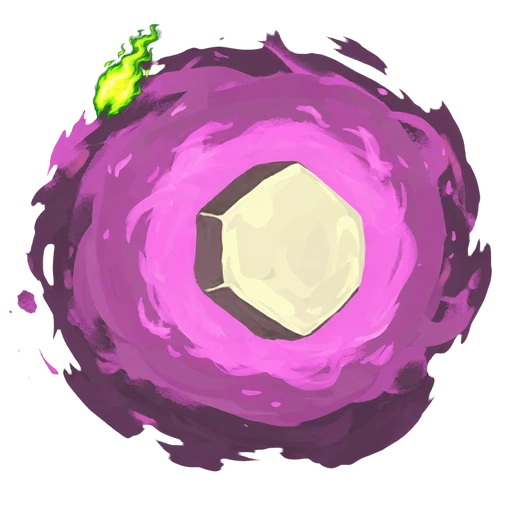
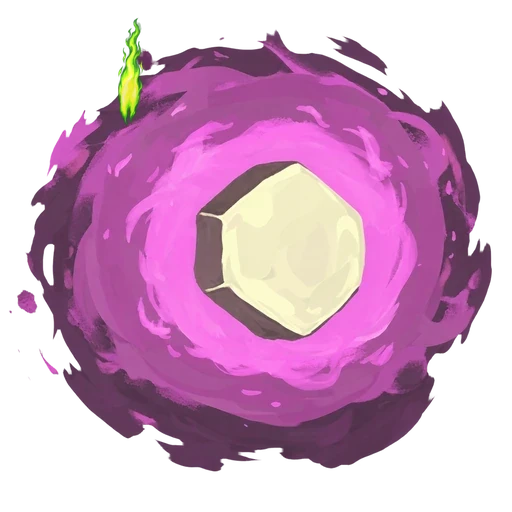
Polish slime commands and foreground layout with upright heat flames

Changed region(s): [[0.1562, 0.0312, 0.3125, 0.25]]

diff --git a/src/ui/styles/painterly-combat-stage.css b/src/ui/styles/painterly-combat-stage.css
@@ -230,28 +230,28 @@
 
 /* PC Downfall keeps commanded Slimes on the battlefield at their owner's
    feet. This compact party belongs to the seat instead of stealing a full HUD
-   row, so multiplayer seats scale and wrap independently. */
+   row, with each party arranged left to right. */
 .slime-party {
+  --slime-size: min(calc(3.08rem * var(--stage-scale)),
+    calc(var(--stage-actor-width) / (var(--slime-count) * 1.114)));
   position: absolute;
   z-index: 7;
-  width: calc(22.25rem * var(--stage-scale));
-  bottom: calc(3.15rem * var(--stage-scale));
-  left: 42%;
+  width: max-content;
+  bottom: calc(-3rem * var(--stage-scale));
+  /* First painted pixel aligns with the owner's painted left edge. */
+  left: calc(50% + min(100%, var(--portrait-height)) * var(--slime-body-left, -0.399625)
+    - var(--slime-size) * var(--slime-first-inset, 0.059635));
   display: flex;
-  flex-wrap: wrap-reverse;
-  align-content: flex-start;
+  flex-wrap: nowrap;
   align-items: flex-end;
-  justify-content: flex-start;
-  column-gap: calc(0.08rem * var(--stage-scale));
-  row-gap: calc(0.58rem * var(--stage-scale));
+  column-gap: calc(var(--slime-size) * 0.114);
   pointer-events: none;
-  transform: translateX(calc(0.35rem * var(--stage-scale)));
 }
 
 .slime-party__actor {
   position: relative;
-  flex: 0 0 calc(3.08rem * var(--stage-scale));
-  width: calc(3.08rem * var(--stage-scale));
+  flex: 0 0 var(--slime-size);
+  width: var(--slime-size);
   aspect-ratio: 1 / 0.95;
   border-radius: 50%;
   outline: none;
@@ -259,41 +259,16 @@
   cursor: pointer;
   filter: drop-shadow(0 0.3rem 0.2rem rgb(0 0 0 / 0.64));
   transform-origin: center bottom;
-  transition: filter 120ms ease, transform 120ms ease;
-}
-
-@media (orientation: landscape) and (max-height: 26.25rem) {
-  .slime-party {
-    left: -21%;
-    column-gap: 0;
-  }
-}
-
-.board[data-rows='3'] .slime-party,
-.board[data-rows='4'] .slime-party {
-  left: 50%;
-  width: calc(9.24rem * var(--stage-scale));
-  column-gap: 0;
-  row-gap: calc(0.1rem * var(--stage-scale));
-  transform: translateX(-50%);
+  transition: filter 120ms ease;
 }
 
 @media (orientation: landscape) and (max-width: 40rem) and (max-height: 26.25rem) {
-  .slime-party {
-    width: calc(9rem * var(--stage-scale));
-    row-gap: calc(0.1rem * var(--stage-scale));
-  }
-
-  .slime-party__actor {
-    flex-basis: calc(2.25rem * var(--stage-scale));
-    width: calc(2.25rem * var(--stage-scale));
-  }
+  .slime-party { --slime-size: min(calc(2.25rem * var(--stage-scale)), calc(var(--stage-actor-width) / (var(--slime-count) * 1.114))); }
 }
 
 .slime-party__actor:is(:hover, :focus-visible) {
   z-index: 3;
   filter: drop-shadow(0 0 0.28rem #8de871) drop-shadow(0 0.35rem 0.22rem #000);
-  transform: scale(1.16);
 }
 
 .slime-party__actor--spent {
@@ -313,15 +288,13 @@
 
 .slime-party__command {
   z-index: 2;
-  width: 155%;
-  max-width: none;
-  height: 155%;
-  transform: translate(-12%, -24%);
+  transform-origin: center bottom;
+  animation: slime-party-impact 1700ms ease-in-out both;
 }
 
 .slime-party__actor--commanding {
   z-index: 4;
-  animation: slime-party-command 1700ms linear both;
+  animation: slime-party-command 1700ms cubic-bezier(0.333333, 0, 0.666667, 1) both;
 }
 
 .slime-party__actor--commanding .slime-party__art {
@@ -357,7 +330,7 @@
 .slime-party__level {
   position: absolute;
   z-index: 4;
-  top: calc(100% + 0.02rem * var(--stage-scale));
+  bottom: calc(0.4rem * var(--stage-scale));
   left: 50%;
   color: #fff4bd;
   font: 700 min(0.68rem, calc(0.76rem * var(--stage-scale))) / 1 Georgia, serif;
@@ -383,12 +356,18 @@
   filter: none;
 }
 
+/* Travel and contact retain the existing 600/850/1100/1700ms queue clock.
+   The canonical sprite stays at its idle size; CSS supplies continuous motion. */
 @keyframes slime-party-command {
-  0%, 100% { transform: translate(0) scale(1); }
-  8% { transform: translate(0) scale(1.08, 0.92); }
-  35.294%, 64.706% { transform: translate(var(--slime-command-x, 0px), var(--slime-command-y, 0px)) scale(1); }
-  50% { transform: translate(var(--slime-command-x, 0px), var(--slime-command-y, 0px)) scale(1.08, 0.94); }
-  92% { transform: translate(0) scale(1.06, 0.94); }
+  0%, 8%, 100% { transform: translate(0); }
+  35.294%, 64.706% { transform: translate(var(--slime-command-x, 0px), var(--slime-command-y, 0px)); }
+}
+
+@keyframes slime-party-impact {
+  0%, 8%, 35.294%, 64.706%, 100% { transform: translateY(0) rotate(0); }
+  23% { transform: translateY(-12%) rotate(-5deg); }
+  50% { transform: translateX(5%) rotate(4deg); }
+  80% { transform: translateY(-8%) rotate(3deg); }
 }
 
 .board[data-rows='3'] .slime-party__actor::before,
@@ -963,3 +942,9 @@
   scale: var(--character-art-scale, 1);
   transform-origin: center bottom;
 }
+
+@media (min-height: 26.251rem) {
+  .row__seat:has(.slime-party) { bottom: calc(4.1rem * var(--stage-scale) + 1.5rem); }
+}
+
+.seat__interactive:has(.slime-party) .seat__portrait > img { min-height: 0; min-width: 0; }

diff --git a/src/ui/CombatScreen.tsx b/src/ui/CombatScreen.tsx
@@ -262,6 +262,20 @@ function chargedCardEnergy(def: CardDef, player: Player, card: CardInstance): nu
   return typeof cost === 'number' ? cost : undefined
 }
 
+// Alpha bounds locate the painted edge rather than transparent sprite padding.
+function paintedLeft(image: HTMLImageElement): number {
+  const canvas = document.createElement('canvas')
+  canvas.width = image.naturalWidth; canvas.height = image.naturalHeight
+  const context = canvas.getContext('2d')!
+  context.drawImage(image, 0, 0)
+  const pixels = context.getImageData(0, 0, canvas.width, canvas.height).data
+  let left = canvas.width
+  for (let y = 0; y < canvas.height; y++) for (let x = 0; x < left; x++) {
+    if (pixels[(y * canvas.width + x) * 4 + 3]! > 32) { left = x; break }
+  }
+  return left / canvas.width
+}
+
 function CharacterAttackPose({ asset, assetPath: sourceAsset, fallbackAsset, attackSeq }: {
   asset?: Blob
   assetPath: string
@@ -5831,6 +5845,11 @@ function CombatScreenView({
                                 ? 'combat/characters/slime_boss-spawn.webp'
                               : `combat/characters/${occupant.character}.webp`)}
                             data-vfx-seq={characterAttack?.active.event.seq}
+                            onLoad={occupant.character === 'slime_boss' ? (event) => {
+                              const image = event.currentTarget
+                              image.closest<HTMLElement>('.seat__interactive')?.style.setProperty(
+                                '--slime-body-left', String((paintedLeft(image) - 0.5) * (image.dataset.staticArt ? 1 : characterArtScale)))
+                            } : undefined}
                             alt=""
                             onError={(event) => {
                               if (occupant.character === 'slime_boss' && slimeSpawnEvent &&
@@ -6043,7 +6062,8 @@ function CombatScreenView({
                     </button>
                     {occupant.character === 'slime_boss' && occupant.slimes.length > 0 ? (
                       <span className="slime-party combat__slime-status" role="list"
-                        aria-label={`${occupant.name}'s Slimes`}>
+                        aria-label={`${occupant.name}'s Slimes`}
+                        style={{ '--slime-count': occupant.slimes.length } as React.CSSProperties}>
                         {occupant.slimes.map((slime) => {
                           const def = faceOf(cardDef(slime.card.defId), slime.card.upgraded)
                           const name = def.name.replace(/ Slime\+?$/, '')
@@ -6092,7 +6112,14 @@ function CombatScreenView({
                                 `${commandReady ? 'ready to Command' : 'Command limit reached'}, ` + commandText}>
                               <img
                                 className="slime-party__art"
+                                key={slime === occupant.slimes[0] ? 'first' : 'following'}
                                 src={assetPath(`combat/slimes/${slug}.webp`)}
+                                onLoad={(event) => {
+                                  const image = event.currentTarget
+                                  const party = image.closest<HTMLElement>('.slime-party')
+                                  if (party?.firstElementChild === image.parentElement) party.style.setProperty(
+                                    '--slime-first-inset', String(0.025 + 0.95 * paintedLeft(image)))
+                                }}
                                 alt=""
                                 onError={(event) => {
                                   if (event.currentTarget.dataset.fallback === 'true') {
@@ -6108,7 +6135,7 @@ function CombatScreenView({
                                   className="slime-party__command"
                                   key={activeCommandEvent.seq}
                                   data-command-seq={activeCommandEvent.seq}
-                                  src={assetPath(`combat/slimes/${slug}-command.webp`)}
+                                  src={assetPath(`combat/slimes/${slug}.webp`)}
                                   alt=""
                                   onError={(event) => {
                                     event.currentTarget.style.display = 'none'

diff --git a/src/ui/styles/stage-scale.css b/src/ui/styles/stage-scale.css
@@ -344,7 +344,7 @@
   .row__seat .seat .bar,
   .board .enemy .bar { bottom: calc(0.35rem * var(--stage-scale) + 4.75rem); }
 
-  .slime-party { bottom: calc(3.15rem * var(--stage-scale) + 4.75rem); }
+  .slime-party { bottom: calc(1.75rem * var(--stage-scale)); }
 
   .board .enemy .tokens { bottom: 3.7rem; }
   .seat__status-strip {
@@ -361,9 +361,6 @@
   .seat__status-strip > .powers { order: -1; }
 }
 
-@media (orientation: landscape) and (max-width: 40rem) and (max-height: 26.25rem) {
-  .slime-party { bottom: calc(2.65rem * var(--stage-scale) + 4.75rem); }
-}
 
 @media (max-width: 48.125rem) {
   .board:not([data-rows='1']) .row--viewer .row__seat {

diff --git a/scripts/animation/render-hexaghost-heat.py b/scripts/animation/render-hexaghost-heat.py
@@ -1,0 +1,56 @@
+"""Upright, independently flickering heat flames over the shared zero-heat body."""
+import json
+import math
+from pathlib import Path
+from PIL import Image
+
+ROOT = Path(__file__).resolve().parents[2]
+OUT = ROOT/'public/assets/combat/rigged'
+ART = ROOT/'public/assets/combat/characters'
+# Bottom centers in the 400px registered body canvas. Every flame points up.
+ANCHORS = [(132,194),(268,194),(320,292),(268,390),(132,390),(82,292)]
+flame = Image.open(ROOT/'public/assets/combat/vfx/actions/hexaghost-flame.webp').convert('RGBA')
+flame = flame.crop(flame.getbbox())
+
+
+def overlay(body, heat, time, factor=1, offset=(0,0)):
+    frame = body.copy()
+    for index, (x,y) in enumerate(ANCHORS[:heat]):
+        phase = time/1000*math.tau
+        # Short vertical pulses imitate rising fire; the base never tilts or drifts.
+        width = round(27*factor*(1+.045*math.sin(phase*3+index*1.7)))
+        height = round(62*factor*(1+.09*math.sin(phase*5+index*1.3)))
+        tongue = flame.resize((width,height),Image.Resampling.LANCZOS)
+        opacity = .92+.08*math.sin(phase*4+index*2.1)
+        tongue.putalpha(tongue.getchannel('A').point(lambda a: round(a*opacity)))
+        frame.alpha_composite(tongue,(round((x-offset[0])*factor-width/2),round((y-offset[1])*factor-height)))
+    return frame
+
+
+def render(heat):
+    for action in ('idle','attack'):
+        body = Image.open(OUT/f'hero-hexaghost-heat-0-{action}.webp')
+        frames, durations, time = [], [], 0
+        for index in range(body.n_frames):
+            body.seek(index)
+            frame = body.convert('RGBA')
+            duration = body.info['duration']
+            frames.append(overlay(frame,heat,time))
+            durations.append(duration)
+            time += duration
+        frames[0].save(OUT/f'hero-hexaghost-heat-{heat}-{action}.webp',save_all=True,
+            append_images=frames[1:],duration=durations,loop=0 if action=='idle' else 1,quality=88,method=4)
+    # Reduced motion uses the same vertical flames, frozen in a natural phase.
+    original = Image.open(ART/'hexaghost-heat-0.webp').convert('RGBA')
+    box = original.getbbox()
+    spec = json.loads((ROOT/'scripts/animation/rigs.json').read_text())['hero-hexaghost-heat-0']
+    scale = min(400*.8/(box[2]-box[0]),400*.88/(box[3]-box[1]))/spec['displayScale']
+    ground = round(400*(1-.02/spec['displayScale']))
+    offset = ((400-(box[2]-box[0])*scale)/2-box[0]*scale,ground-box[3]*scale)
+    overlay(original,heat,0,1/scale,offset).save(ART/f'hexaghost-heat-{heat}.webp',quality=90,method=4)
+    print(f'Hexaghost heat {heat}: vertical flames, shared body, idle and attack clocks preserved',flush=True)
+
+
+if __name__ == '__main__':
+    for heat in range(1,7):
+        render(heat)

diff --git a/scripts/animation/render-rig.py b/scripts/animation/render-rig.py
@@ -152,6 +152,10 @@ if __name__ == '__main__':
             renderer = 'render-nob.py' if name == 'gremlin_nob' else 'render-ironclad.py'
             runpy.run_path(str(ROOT / 'scripts/animation' / renderer), run_name='__main__')
             continue
+        if name.startswith('hero-hexaghost-heat-') and not name.endswith('-0'):
+            import runpy
+            runpy.run_path(str(ROOT/'scripts/animation/render-hexaghost-heat.py'))['render'](int(name.rsplit('-',1)[1]))
+            continue
         if name == 'downfall_demon':
             import runpy
             runpy.run_path(str(ROOT / 'scripts/animation/register-demon.py'), run_name='__main__')

diff --git a/docs/downfall-slime-sources/README.md b/docs/downfall-slime-sources/README.md
@@ -11,3 +11,9 @@ Captured from Jorbs' PC *Downfall* Slime Boss run:
 - `generated-animation-contact-sheet.jpg` records all thirteen generated Command sheets and the Slime Boss minion-spawn sheet, in filename order from left to right and top to bottom.
 
 The runtime exports are optimized WebPs under `public/assets/combat/slimes/`.
+
+Small Slime commands now reuse their canonical static WebPs at exactly the idle
+size. Native CSS animates the dash, rigid hop/impact tilt and return over the
+existing 1700ms command window; the generated twelve-frame command exports are
+retained as historical sources, not used in gameplay. This preserves crowns,
+chairs and other props without generated body-size jumps or WebP replay state.

diff --git a/scripts/animation/README.md b/scripts/animation/README.md
@@ -105,3 +105,8 @@ idle/attack endpoint painted size, and checks size drift throughout the attack.
 Trickster's intentional spectral duplicate is excluded from the whole-frame
 area heuristic. These checks supplement full-size pose inspection, which must
 verify heads, torsos, fingers and weapons themselves.
+
+Hexaghost's heat variants share the zero-heat body registration and animation.
+`render-hexaghost-heat.py` composites upright native-alpha flame artwork at
+fixed bases with independent vertical flicker. It also exports matching static
+variants for reduced motion; crowns of heat never rotate with the purple body.
